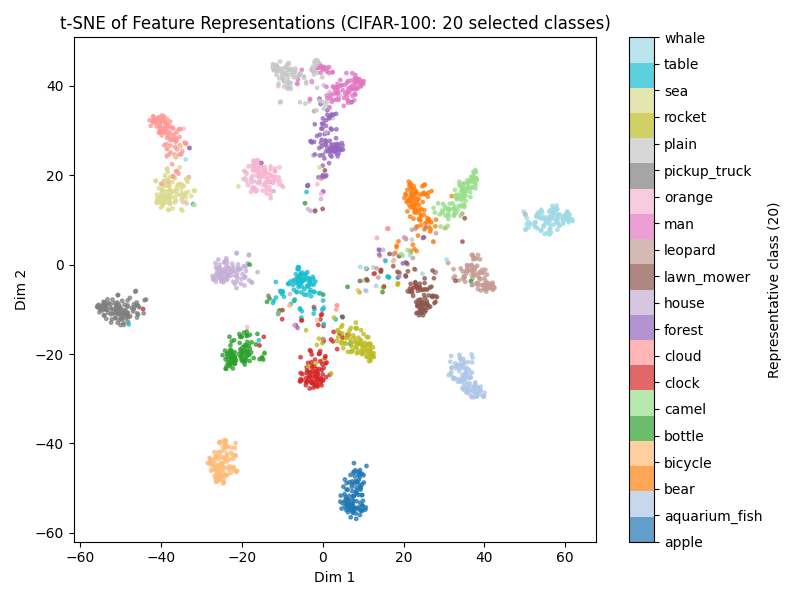
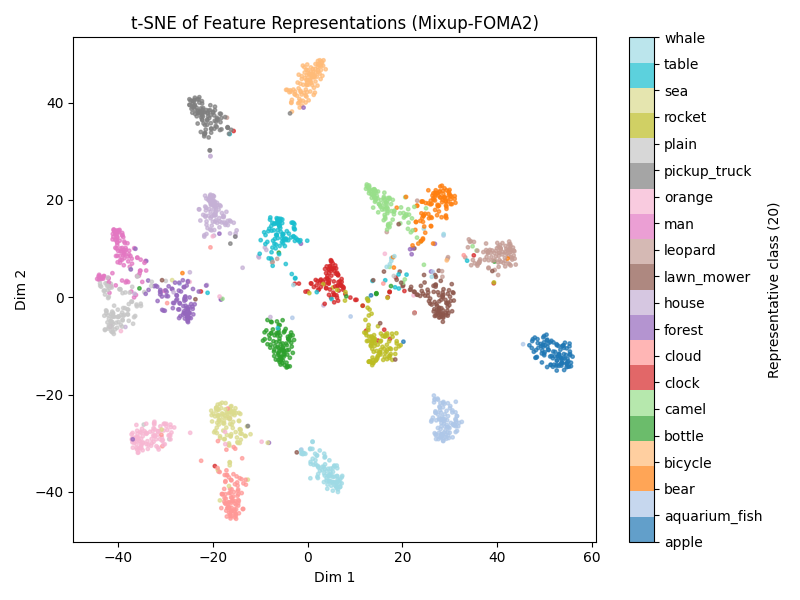
s

diff --git a/visualize_feat.py b/visualize_feat.py
@@ -174,9 +174,9 @@ os.makedirs(f"./result_features/{method}/{data_type}", exist_ok=True)
 augmentations = [
     # "FOMA-Mixup",
     # "Default",
-    # "Mixup", 
+    "Mixup", 
     # "Local-FOMA", 
-    "Mixup-FOMA2",
+    # "Mixup-FOMA2",
 ]
 
 if data_type == "stl10":
@@ -274,8 +274,11 @@ for augment in augmentations:
     X_2d = reducer.fit_transform(X)
 
     plt.figure(figsize=(8, 6))
+    if augment == "Mixup-FOMA2":
+        augment = "Mixup-FOMA"
     if data_type == "cifar100":
-        cmap = cm.get_cmap('tab20', 20)
+        # cmap = cm.get_cmap('tab20', 20)
+        cmap = plt.get_cmap('tab20', 20)
         # bright_colors = [
         #     "red", "blue", "green", "orange", "purple",
         #     "cyan", "magenta", "yellow", "brown", "lime",
@@ -284,7 +287,7 @@ for augment in augmentations:
         # ]
         # cmap = ListedColormap(bright_colors)
         # cmap = plt.cm.get_cmap("gist_rainbow", 20)  # 20 クラス対応
-        scatter = plt.scatter(X_2d[:, 0], X_2d[:, 1], c=y, cmap=cmap, s=6, alpha=0.7)
+        scatter = plt.scatter(X_2d[:, 0], X_2d[:, 1], c=y, cmap=cmap, s=10, alpha=0.7)
         cbar = plt.colorbar(scatter, ticks=np.arange(20))
         cbar.set_label("Representative class (20)")
         # 余裕があればクラス名も表示（長い場合は省略されます）
@@ -292,12 +295,12 @@ for augment in augmentations:
             cbar.ax.set_yticklabels(REPRESENTATIVE_20_NAMES)
         except Exception:
             pass
-        title = "t-SNE of Feature Representations (CIFAR-100: 20 selected classes)"
+        title = f"t-SNE of Feature Representations ({augment})"
         save_suffix = "_20classes"
     else:
         scatter = plt.scatter(X_2d[:, 0], X_2d[:, 1], c=y, cmap='tab10', s=6, alpha=1)
         plt.colorbar(scatter, label="Class label")
-        title = "t-SNE of ResNet Feature Representations"
+        title = f"t-SNE of ResNet Feature Representations ({augment})"
         save_suffix = ""
 
     plt.title(title)
